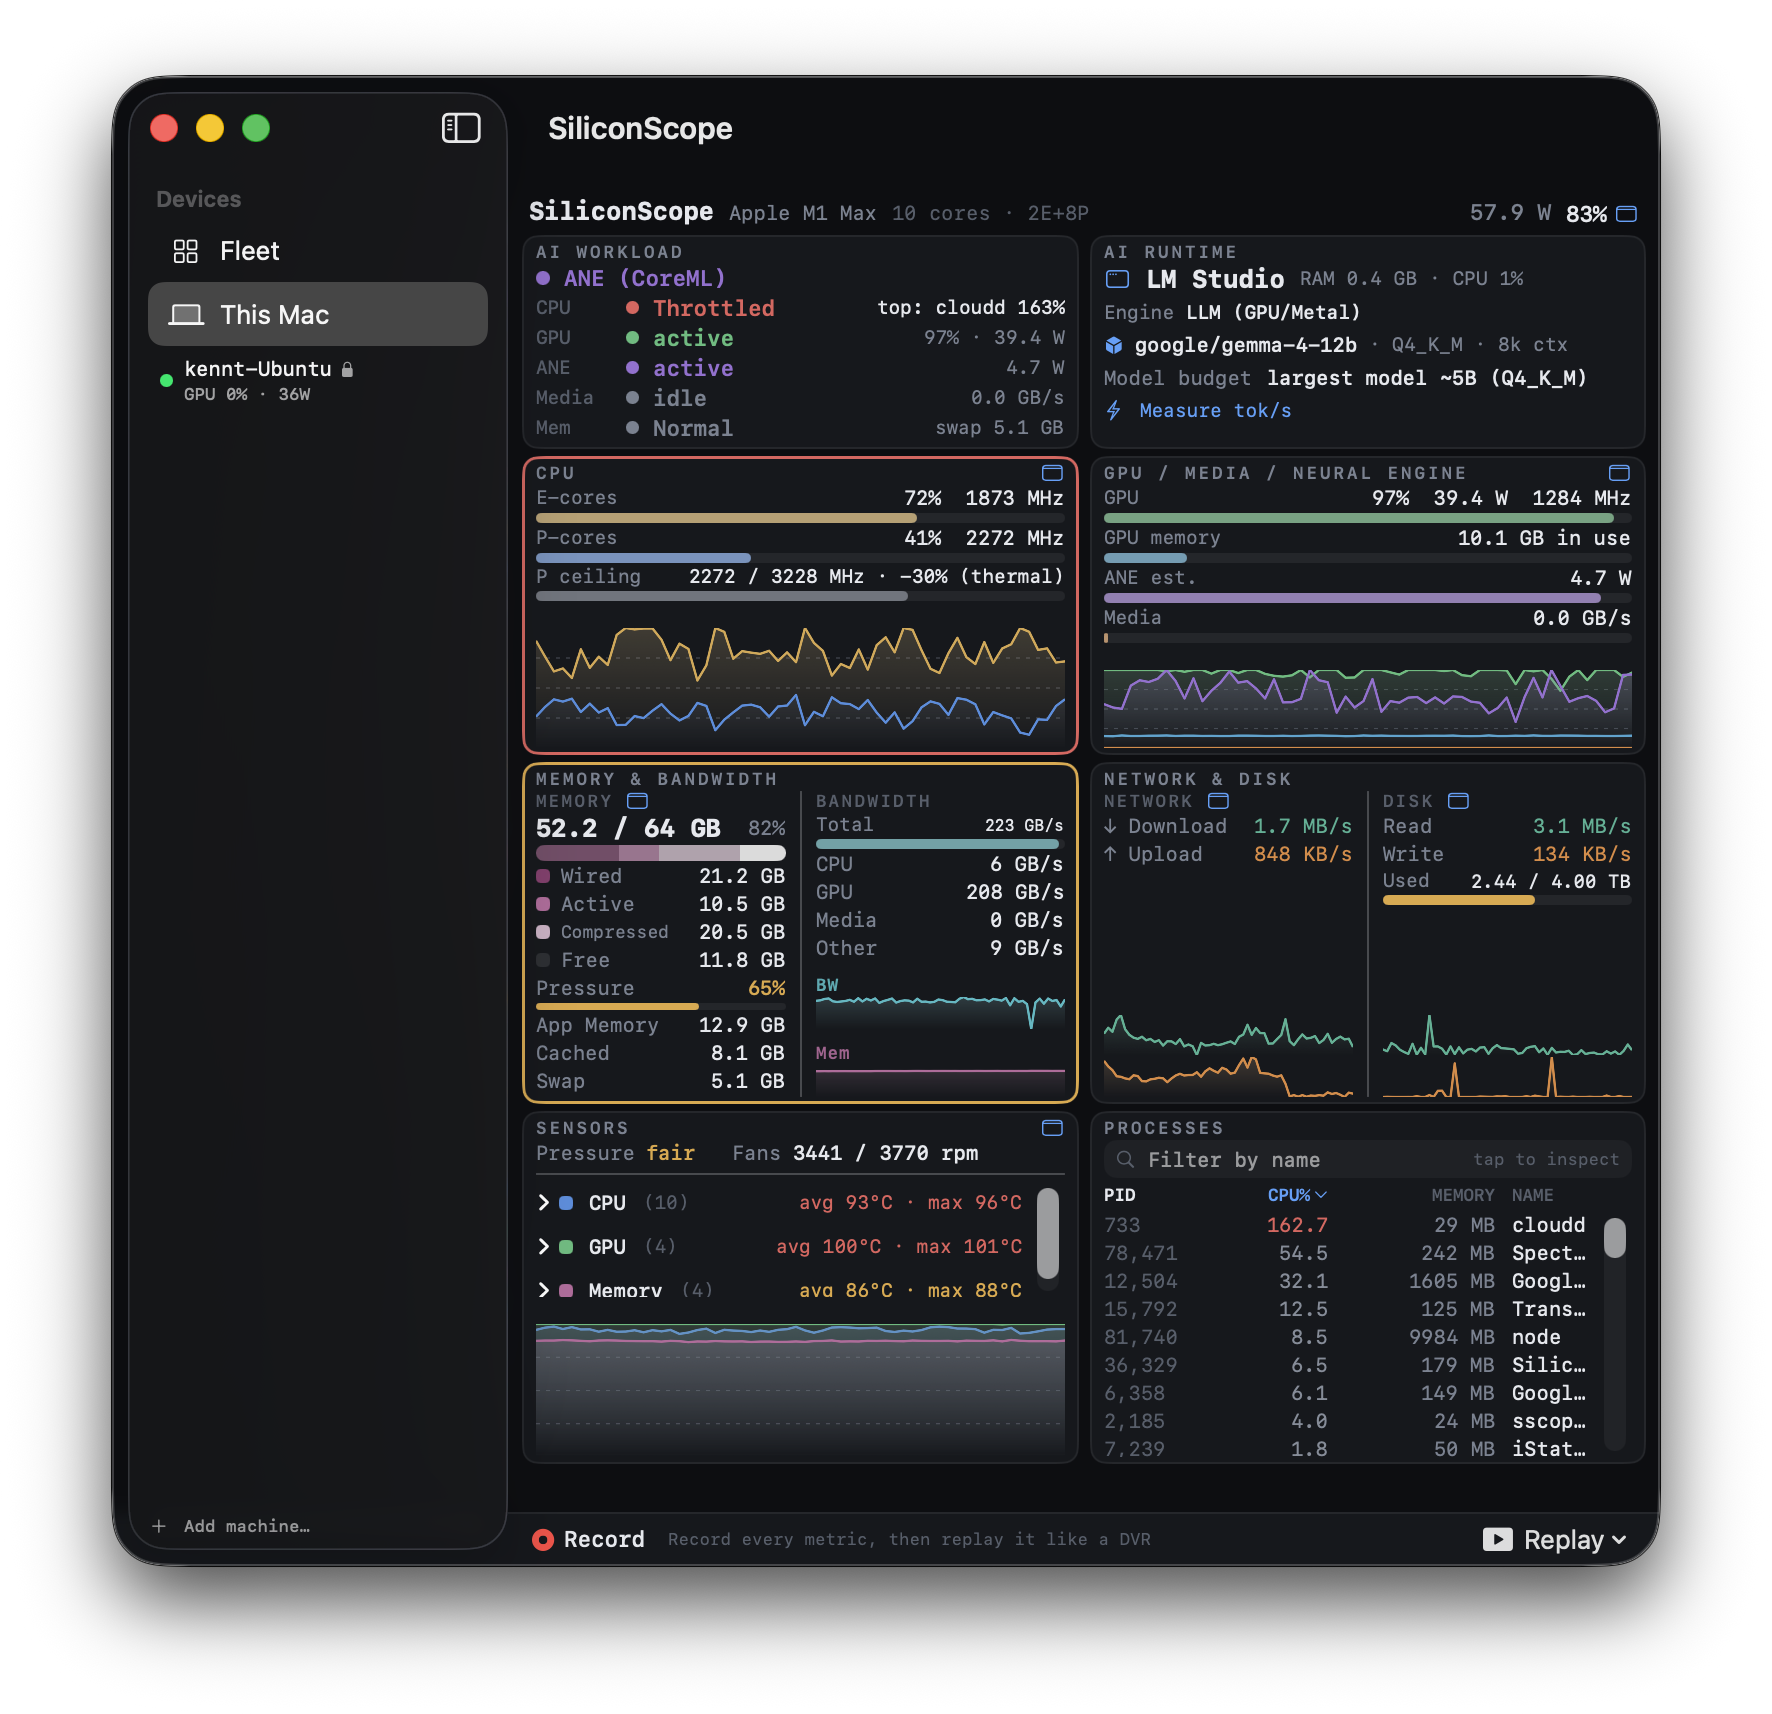
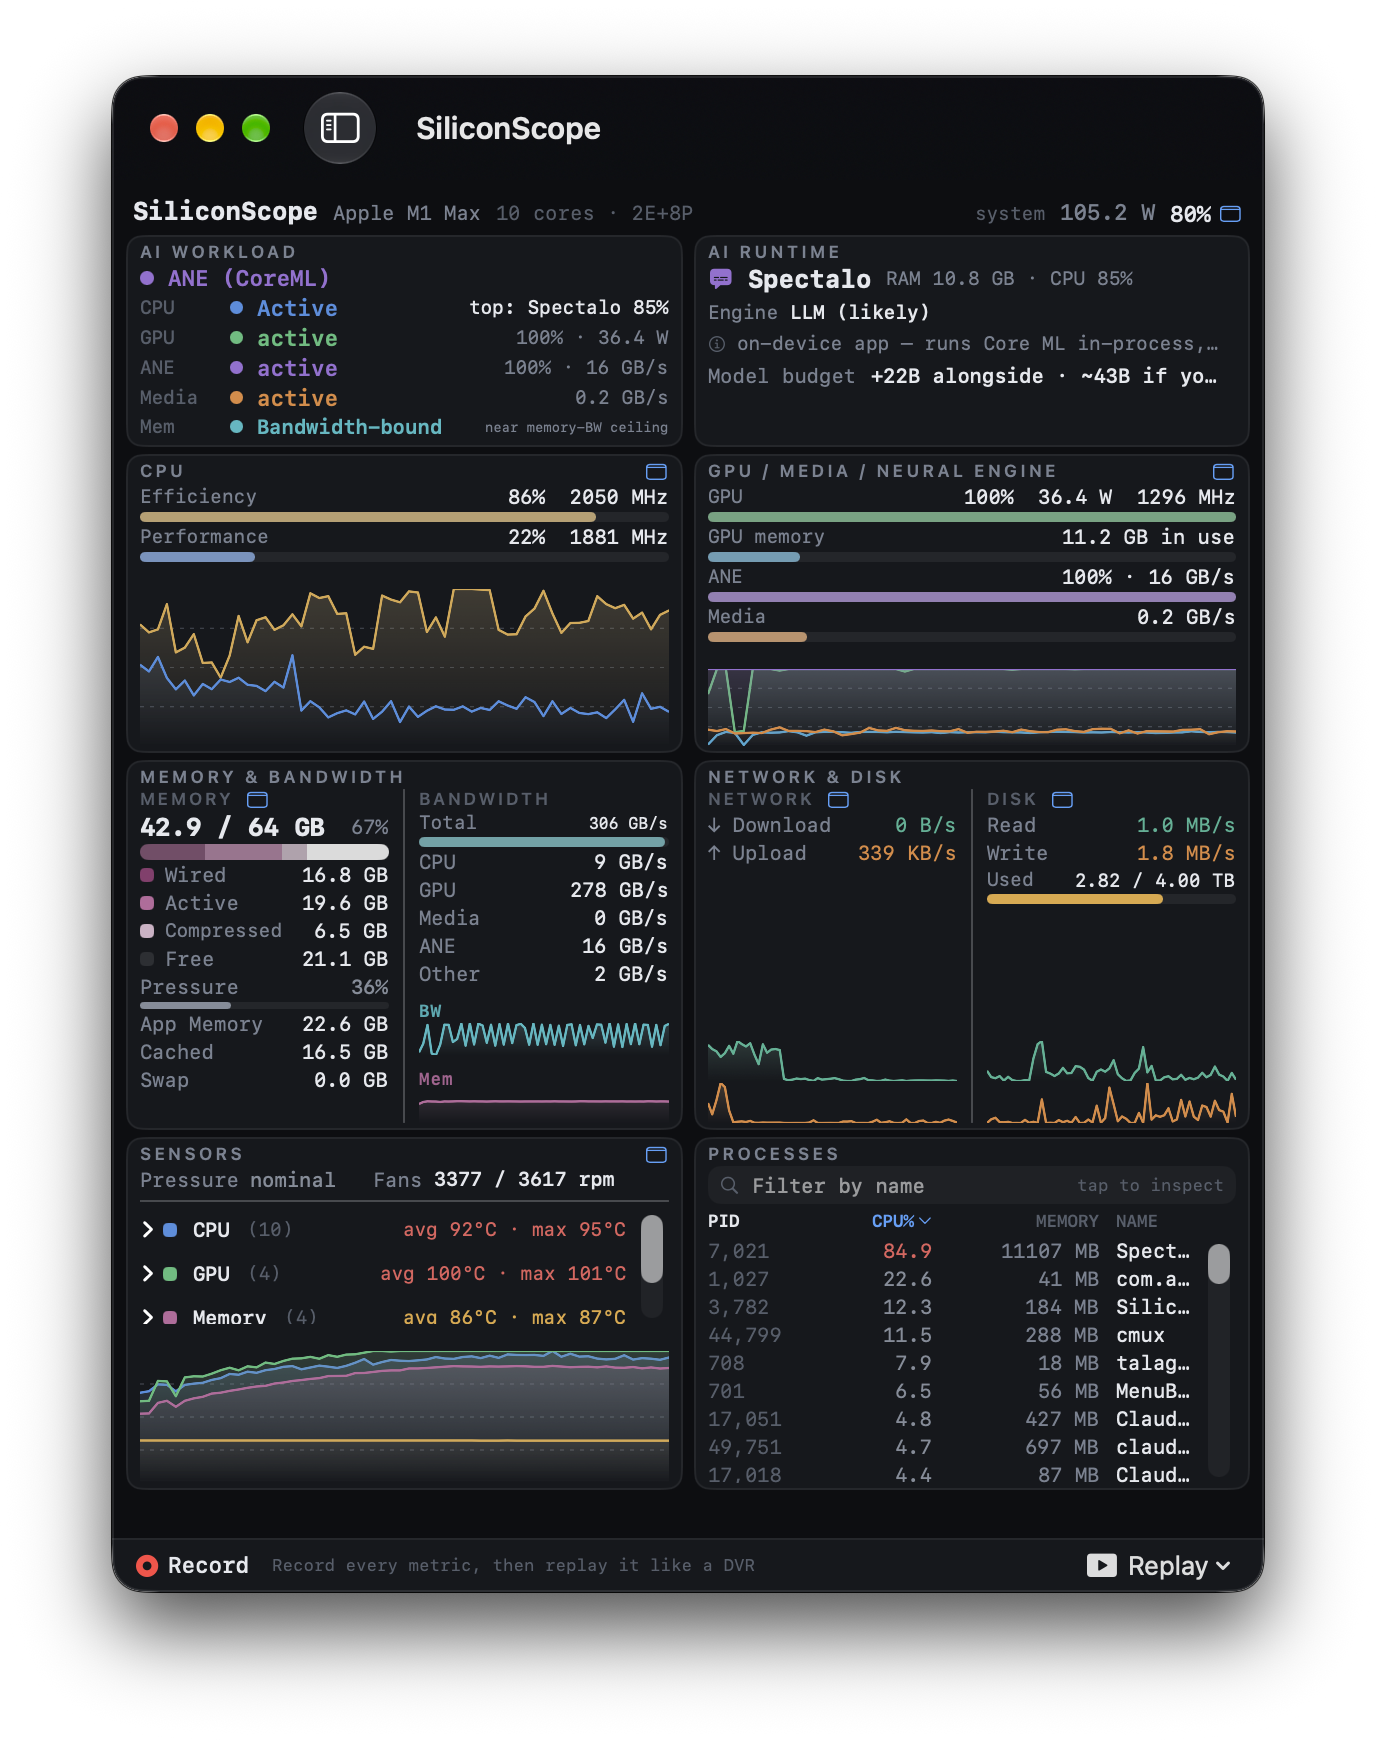
docs: 4.4 screenshots, and say the ANE gauge is measured now
The dashboard, Linux and sidebar screenshots are retaken on 4.4.0: an on-device
Core ML load with the ANE at 100 % moving 16 GB/s on macOS 27, and a Linux box
on the 1.2.0 agent with its new storage card. Captions describe what is on
screen, in all six languages.

The README still called ANE usage a power-normalized estimate. Since 4.4 the
gauge is the ANE clusters' measured residency, which stays live on macOS 27
where the energy counters no longer do; watts are the fallback. The highlights
and the memory-bandwidth list now include the ANE's own lane.

The translated dashboard captions carried the Replay sentence twice; gone with
the rewrite. SpectArk's line now describes what it is: realtime, versioned
backup with restore points, to any disk or NAS.

Changed region(s): [[0.0312, 0.0309, 0.9688, 0.9277]]

diff --git a/README.md b/README.md
@@ -25,7 +25,7 @@ encrypted, paired connection. Remote Macs keep the full treatment, **Neural Engi
 
 ![SiliconScope dashboard with the Replay scrubber](docs/img/dashboard.png)
 
-*One M1 Max under a real load — LM Studio generating on `gemma-4-12b`. The workload classifier reads **ANE (CoreML)**, the GPU is at 97 % and 39 W, memory bandwidth is 223 GB/s against the chip's 400 GB/s ceiling, and the CPU card is outlined red because the P-cluster is **thermally throttled** — 2272 of 3228 MHz, stated as a fact rather than an alarm. Colour is spent only where something needs attention: amber on memory pressure, red on the throttle, neutral everywhere else. The bar along the bottom is **Replay** (new in 3.0): every metric is recorded, so you can scrub back through a session like a DVR.*
+*One M1 Max on macOS 27 under a real on-device AI load — [Spectalo](https://spectalo.calidalab.ai/) running its Core ML models. The workload classifier reads **ANE (CoreML)**, and the Neural Engine is **100 % active, moving 16 GB/s** — measured cluster residency, so it stays live even on macOS 27, where this chip's energy counters update only about every half hour. The GPU is at 100 % and 36 W, memory bandwidth is 306 GB/s against the chip's 400 GB/s ceiling (**bandwidth-bound**), and the header's **system 105 W** is the whole Mac's draw. Colour is spent only where something needs attention — here, red on CPU and GPU temperatures above 90 °C — and neutral everywhere else. The bar along the bottom is **Replay** (new in 3.0): every metric is recorded, so you can scrub back through a session like a DVR.*
 
 ### Menu bar — every metric, iStat-style
 
@@ -77,9 +77,10 @@ split (**wired 1.0 / active 2.7 / compressed 0.5 GB**, pressure 19%) — and Sen
 
 ![A Linux GPU box with VRAM holders and Ollama models](docs/img/fleet-linux.png)
 
-*The same app, a different machine class. An RTX 3090 box: **35 / 390 W** against the card's limit,
-**18.7 / 24 GB VRAM**, which processes are holding it (a Python venv at **17.9 GB**), and the Ollama
-models on disk. No E-cores, no ANE — because it has neither.*
+*The same app, a different machine class. An idle RTX 3090 box: **34 / 390 W** against the card's limit,
+**0.5 / 24 GB VRAM** and which process holds it (ComfyUI's Python, **0.2 GB**), both drives' capacity
+(new in 4.4), and the Ollama models on disk — grey because none is loaded. No E-cores, no ANE —
+because it has neither.*
 
 Every connection is **TLS-encrypted and token-authenticated**, and the viewer pins the agent's
 certificate the first time it connects, so a re-keyed or spoofed agent is refused rather than
@@ -217,8 +218,9 @@ Prefer to build it yourself? See [Build & run](#build--run).
   ceiling — answers "what's limiting my local LLM right now?"
 - **E-core / P-core split** — per-cluster utilization + real DVFS frequency
 - **GPU** — utilization, power, frequency
-- **ANE & Media Engine** — Neural-Engine power and media-codec bandwidth (the differentiators)
-- **Memory bandwidth** — CPU / GPU / Media / total GB/s (the local-LLM bottleneck signal)
+- **ANE & Media Engine** — Neural-Engine activity (measured cluster residency), power and memory
+  traffic, plus media-codec bandwidth (the differentiators)
+- **Memory bandwidth** — CPU / GPU / Media / ANE / total GB/s (the local-LLM bottleneck signal)
 - **Memory** — Wired / Active / Compressed / Free stacked bar + macOS **memory-pressure** alerts
 - **Network** ↑/↓ and **Disk** read/write + free space, with live graphs
 - **Per-unit temperatures** — real **E-Core / P-Core / GPU / Memory** sensors via curated
@@ -322,9 +324,14 @@ so the reported MHz is what the cluster actually ran at, not a nominal max.
 #### 4. ANE & memory bandwidth (with an honest caveat)
 
 The IOReport **Energy Model** group exposes per-domain power including the Neural Engine, and
-the bandwidth channels give CPU/GPU/Media/total GB/s. **ANE "usage" is a power-normalized
-estimate** — Apple doesn't expose ANE occupancy, so it's labeled as an estimate rather than
-faked as a percentage.
+the bandwidth channels give CPU/GPU/Media/ANE/total GB/s. **ANE activity is measured, not inferred
+from power**: `SoC Stats › Cluster Power States` reports how long each ANE cluster spent active, and
+the gauge is the busiest cluster's share. That is a share of time, not a count of operations —
+Apple still doesn't expose ANE occupancy — but it is a measurement, and it stays live on macOS 27,
+where some chips update the Energy Model counters only at power-management events (about every
+30 minutes on an M1 Max). There, ANE **watts** are an average over that span and are labelled as
+one. On a Mac without the residency channel the gauge falls back to power against its observed
+peak.
 
 #### 5. Dynamic per-metric menu-bar items (AppKit, not SwiftUI)
 
@@ -381,7 +388,7 @@ was born from building it. Free open beta on TestFlight — same ethos: nothing 
 Privacy-first, on-device software — mostly for Apple Silicon:
 
 - **[SpectaLing](https://spectaling.calidalab.ai/)** — on-device transcription + live translation & interpretation (Mac/iPad). A privacy-first MacWhisper alternative.
-- **[SpectArk](https://spectark.calidalab.ai/)** — versioned incremental backup for macOS: snapshots the moment a file changes.
+- **[SpectArk](https://spectark.calidalab.ai/)** — realtime, versioned backup for the Mac folders you care about: every change saved within seconds, Time Machine–style restore points, to any disk or NAS.
 - **[SnowChat](https://snowchat.calidalab.ai/)** — end-to-end encrypted messenger on our own Signal-protocol library.
 - **[SnowClaw](https://snowclaw.calidalab.ai/)** — a reference architecture for privacy-preserving agentic AI (working paper).
 

diff --git a/README.de.md b/README.de.md
@@ -26,9 +26,9 @@ bei. Ferne Macs bekommen die volle Behandlung — **Neural Engine inklusive**.
 
 *Vorgestellt auf [ifun.de](https://www.ifun.de/siliconscope-ueberwacht-apple-ki-neural-engine-und-speicher-in-echtzeit-282222/) (DE), [OWC Rocket Yard](https://eshop.macsales.com/blog/99094-siliconscope-improves-upon-macos-activity-monitor-with-apple-silicon-insights/) (US) und [AAPL Ch.](https://applech2.com/archives/20260620-siliconscope-apple-silicon-mac-system-monitor.html) (JP).*
 
-![SiliconScope-Dashboard unter Last eines lokalen LLM](docs/img/dashboard.png)
+![SiliconScope-Dashboard unter On-Device-KI-Last](docs/img/dashboard.png)
 
-*Ein M1 Max unter echter Last — LM Studio generiert mit `gemma-4-12b`. Der Workload-Klassifikator meldet **ANE (CoreML)**, die GPU liegt bei 97 % und 39 W, die Speicherbandbreite bei 223 GB/s gegen die 400 GB/s des Chips — und die CPU-Karte ist rot umrandet, weil der P-Cluster **thermisch gedrosselt** wird: 2272 von 3228 MHz, als Tatsache formuliert, nicht als Alarm. Farbe wird nur dort ausgegeben, wo etwas Aufmerksamkeit braucht: Bernstein bei Speicherdruck, Rot bei der Drosselung, sonst neutral. Die Leiste unten ist **Replay** (neu in 3.0): jede Metrik wird aufgezeichnet, du kannst eine Sitzung wie mit einem DVR zurückspulen.**Replay** (neu in 3.0): jede Metrik wird aufgezeichnet, sodass du wie bei einem DVR durch eine Sitzung zurückspulen kannst.*
+*Ein M1 Max unter macOS 27 bei echter On-Device-KI-Last — [Spectalo](https://spectalo.calidalab.ai/) führt seine Core-ML-Modelle aus. Der Workload-Klassifikator meldet **ANE (CoreML)**, und die Neural Engine ist **zu 100 % aktiv und bewegt 16 GB/s** — gemessene Cluster-Residenz, daher live auch unter macOS 27, wo die Energiezähler dieses Chips nur etwa alle halbe Stunde aktualisiert werden. Die GPU liegt bei 100 % und 36 W, die Speicherbandbreite bei 306 GB/s gegen die 400 GB/s des Chips (**bandbreitenlimitiert**), und **system 105 W** in der Kopfzeile ist die Leistungsaufnahme des ganzen Mac. Farbe wird nur dort ausgegeben, wo etwas Aufmerksamkeit braucht — hier Rot bei CPU- und GPU-Temperaturen über 90 °C —, sonst neutral. Die Leiste unten ist **Replay** (neu in 3.0): jede Metrik wird aufgezeichnet, sodass du wie bei einem DVR durch eine Sitzung zurückspulen kannst.*
 
 ### Menüleiste — jede Metrik, im iStat-Stil
 
@@ -83,9 +83,10 @@ die ein Wire-Agent nicht füllen kann, werden weggelassen und nicht gefälscht.*
 
 ![Eine Linux-GPU-Kiste mit VRAM-Haltern und Ollama-Modellen](docs/img/fleet-linux.png)
 
-*Dieselbe App, eine andere Klasse von Rechner. Eine RTX-3090-Kiste: **35 / 390 W** gegen das Limit der
-Karte, **18,7 / 24 GB VRAM**, wer es hält (ein Python-venv mit **17,9 GB**) und die Ollama-Modelle auf
-der Platte. Keine E-Kerne, keine ANE — weil sie beides nicht hat.*
+*Dieselbe App, eine andere Klasse von Rechner. Eine RTX-3090-Kiste im Leerlauf: **34 / 390 W** gegen das
+Limit der Karte, **0,5 / 24 GB VRAM** und wer es hält (ComfyUIs Python, **0,2 GB**), die Kapazität beider
+Laufwerke (neu in 4.4) und die Ollama-Modelle auf der Platte — grau, weil keines geladen ist. Keine
+E-Kerne, keine ANE — weil sie beides nicht hat.*
 
 Jede Verbindung ist **TLS-verschlüsselt und token-authentifiziert**, und der Viewer pinnt beim ersten
 Verbinden das Zertifikat des Agents (TOFU) — ein neu geschlüsselter oder untergeschobener Agent wird
@@ -227,9 +228,9 @@ Wenn du selbst bauen willst, siehe [Build & run](README.md#build--run) im englis
   des jeweiligen Chips — beantwortet: „Was bremst mein lokales LLM gerade?"
 - **E-Kern- / P-Kern-Trennung** — Auslastung pro Cluster + echte DVFS-Frequenzen
 - **GPU** — Auslastung, Leistung, Frequenz
-- **ANE & Media Engine** — Neural-Engine-Leistung und Medien-Codec-Bandbreite (das
-  Alleinstellungsmerkmal)
-- **Speicherbandbreite** — CPU / GPU / Media / gesamt GB/s (das Engpass-Signal für lokale LLMs)
+- **ANE & Media Engine** — Neural-Engine-Aktivität (gemessene Cluster-Residenz), Leistung und
+  Speicherverkehr, dazu Medien-Codec-Bandbreite (das Alleinstellungsmerkmal)
+- **Speicherbandbreite** — CPU / GPU / Media / ANE / gesamt GB/s (das Engpass-Signal für lokale LLMs)
 - **Speicher** — gestapelte Balken aus Wired / Active / Compressed / Free + macOS-Warnung bei
   **Speicherdruck**
 - **Netzwerk** ↑/↓ und **Festplatte** Lesen/Schreiben + freier Speicher, mit Live-Graphen
@@ -265,7 +266,7 @@ Deep-Dives findest du im **[englischen README](README.md)**.
 Datenschutzorientierte, geräteinterne Software — hauptsächlich für Apple Silicon:
 
 - **[SpectaLing](https://spectaling.calidalab.ai/)** — geräteinterne Transkription + Live-Übersetzung & Simultandolmetschen (Mac/iPad). Eine datenschutzfreundliche MacWhisper-Alternative.
-- **[SpectArk](https://spectark.calidalab.ai/)** — versionierte inkrementelle Backups für macOS: sichert in dem Moment, in dem sich eine Datei ändert.
+- **[SpectArk](https://spectark.calidalab.ai/)** — versionierte Echtzeit-Backups für die Mac-Ordner, auf die es ankommt: jede Änderung in Sekunden gesichert, Wiederherstellungspunkte wie bei Time Machine, auf jede Festplatte oder jedes NAS.
 - **[SnowChat](https://snowchat.calidalab.ai/)** — Ende-zu-Ende-verschlüsselter Messenger auf unserer eigenen Signal-Protokoll-Bibliothek.
 - **[SnowClaw](https://snowclaw.calidalab.ai/)** — eine Referenzarchitektur für datenschutzwahrende agentische KI (Arbeitspapier).
 
